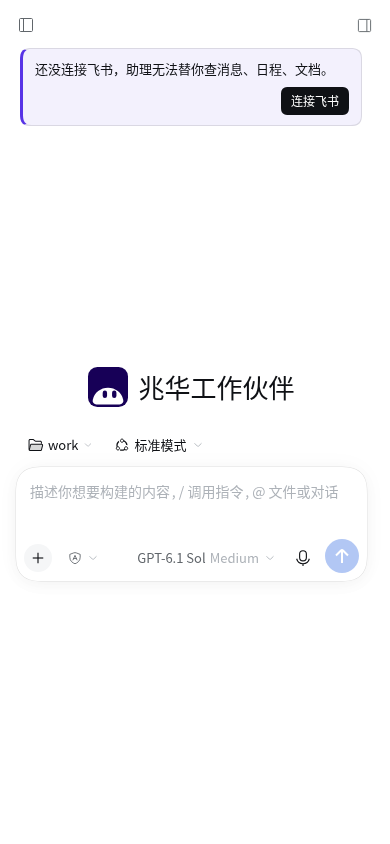
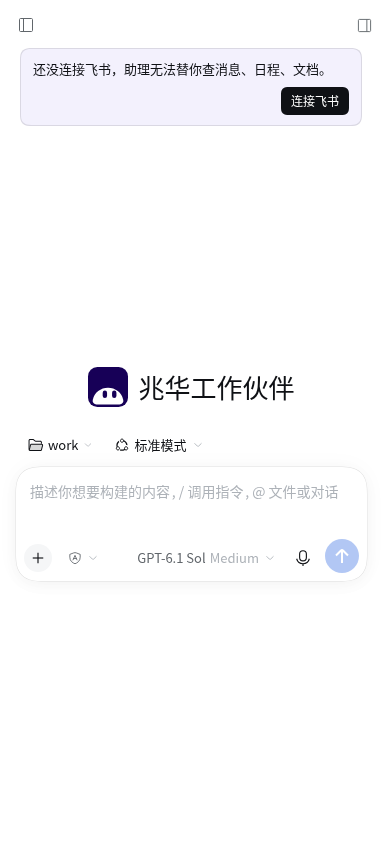
去掉飞书提醒的单侧色条并更新深浅色截图

Changed region(s): [[0.0923, 0.0616, 0.6154, 0.0924], [0.6462, 0.0616, 0.8308, 0.0924], [0.0308, 0.0616, 0.0615, 0.154]]

diff --git a/crysound/feishu/native/client.js b/crysound/feishu/native/client.js
@@ -60,7 +60,7 @@ window.__ModuleLoader__.load({
 .zp-feishu-actions{display:flex;gap:8px;flex-wrap:wrap;align-items:center}
 .zp-feishu-feedback{margin-top:16px!important;overflow-wrap:anywhere}
 [data-conversation-header-leading]:has(.zp-feishu-banner){grid-column:1/-1;grid-row:2;min-width:0;padding:8px 0 10px}
-.zp-feishu-banner{display:flex;align-items:center;gap:16px;width:100%;box-sizing:border-box;padding:12px 16px;border:1px solid var(--dsw-alias-border-l2);border-radius:12px;border-inline-start:3px solid #5733e6;background:color-mix(in srgb,#5733e6 7%,var(--dsw-alias-bg-base));color:var(--dsw-alias-label-primary);font-size:13px;line-height:20px;-webkit-app-region:no-drag}
+.zp-feishu-banner{display:flex;align-items:center;gap:16px;width:100%;box-sizing:border-box;padding:12px 16px;border:1px solid var(--dsw-alias-border-l2);border-radius:12px;background:color-mix(in srgb,#5733e6 7%,var(--dsw-alias-bg-base));color:var(--dsw-alias-label-primary);font-size:13px;line-height:20px;-webkit-app-region:no-drag}
 .zp-feishu-banner p{margin:0}.zp-feishu-banner-copy{flex:1;min-width:0}.zp-feishu-banner button{flex:none}
 @media(max-width:540px){.zp-feishu-banner{align-items:flex-start;flex-direction:column;gap:8px;padding:10px 12px}.zp-feishu-banner button{align-self:flex-end}}
 @media(max-width:540px){.zp-feishu-row{align-items:flex-start;flex-direction:column;gap:12px}.zp-feishu-actions{align-self:flex-end}}
